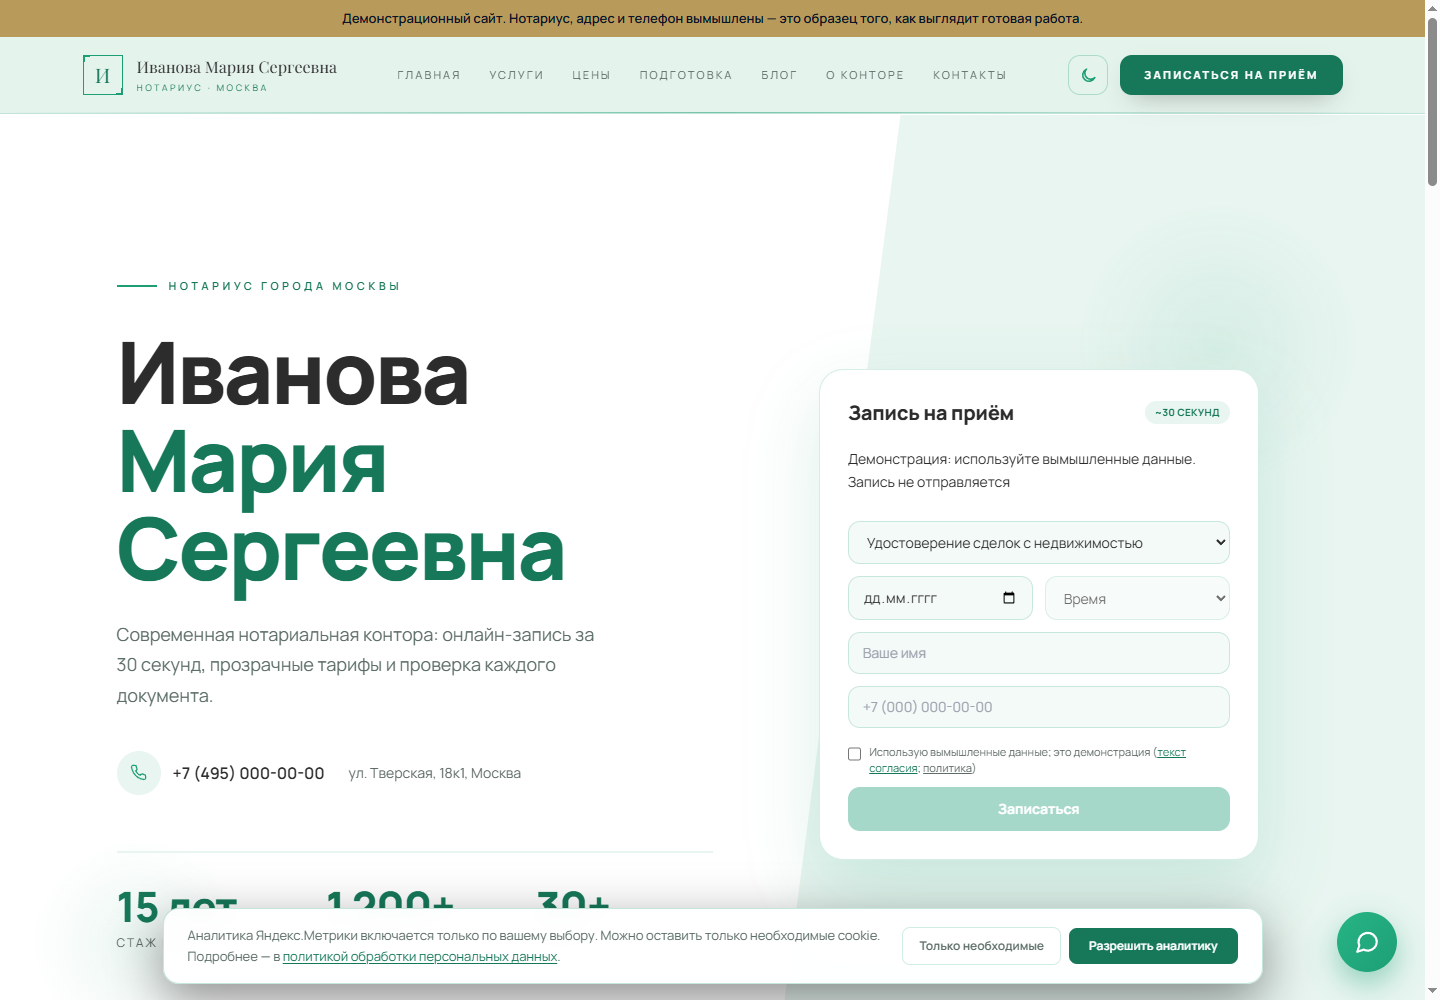
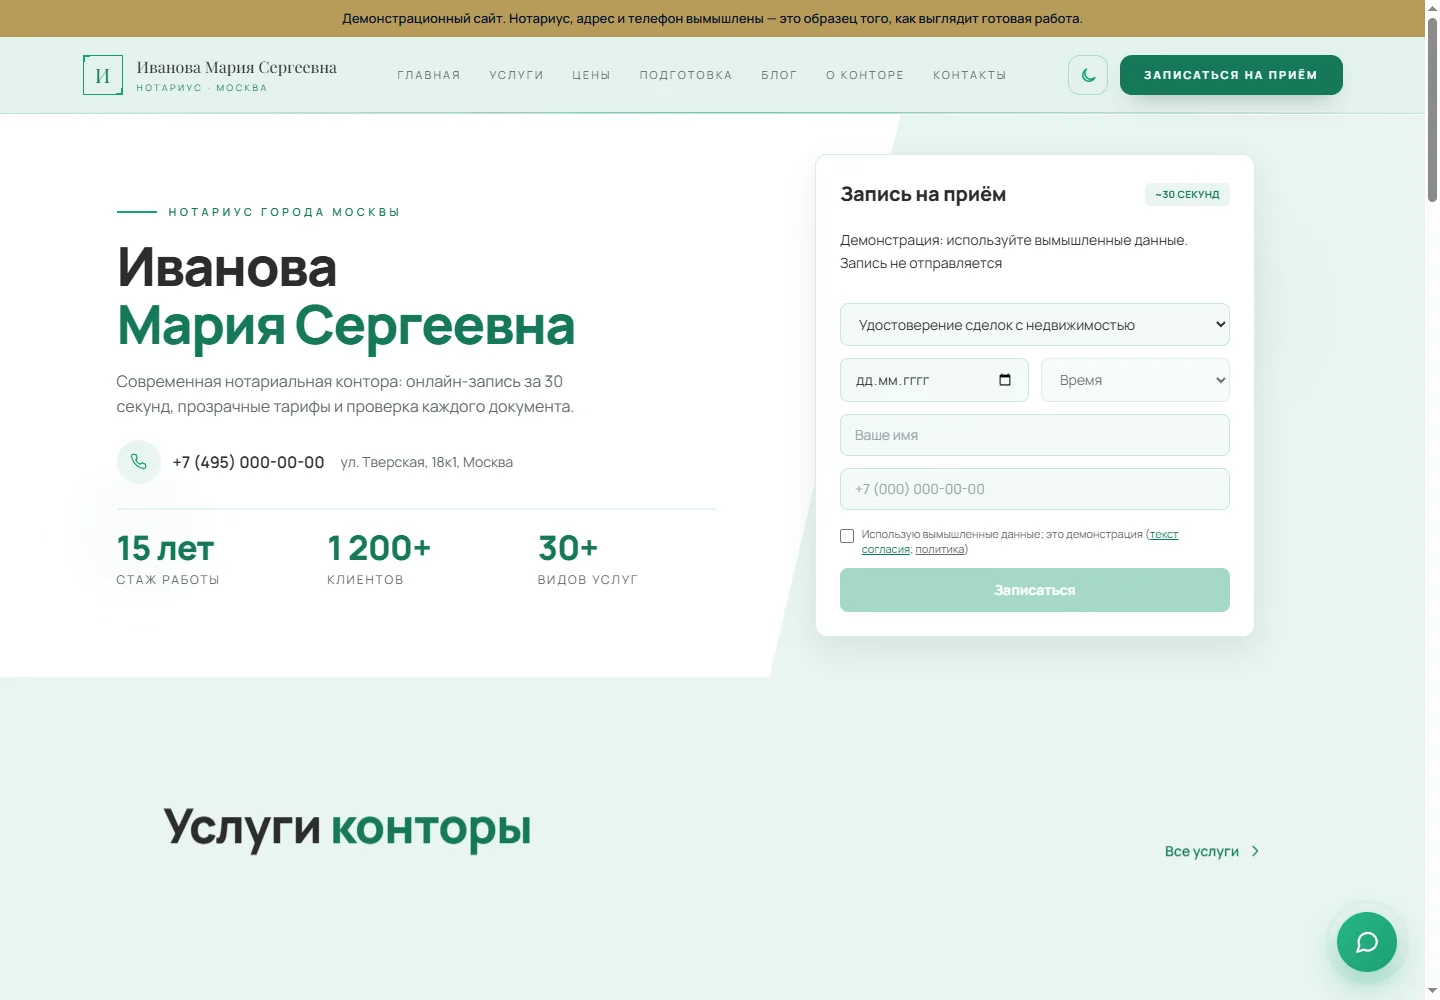
Show demo intake workflow and refresh the five design previews

diff --git a/vendor-site/index.html b/vendor-site/index.html
@@ -23,25 +23,37 @@
     <a href="#price">Сколько стоит</a>
     <a href="#start">Как начать</a>
   </nav>
-  <a class="btn small" href="#price">Цены</a>
+  <a class="btn small" href="https://t.me/ruxjd">Обсудить</a>
 </header>
 
 <!-- ───────────────────────── первый экран ───────────────────────── -->
 
 <section class="hero">
+  <div class="hero-copy">
   <p class="eyebrow">Сайт нотариуса и приём заявок</p>
   <h1>Клиент пишет,<br>что ему нужно.</h1>
   <p class="lede">
-    Сервис сам отвечает, какие документы собрать, называет срок и записывает
-    на приём. Заявка появляется в кабинете, а сотрудникам приходит уведомление в Telegram.
-    Услуги, цены и расписание вы меняете сами, без звонка разработчику.
+    Сайт помогает выбрать услугу и подготовить документы.
+    Сотрудник получает заявку в кабинет — и уведомление в Telegram.
   </p>
   <div class="hero-cta">
     <a class="btn" href="#demo">Попробовать прямо здесь</a>
     <a class="btn ghost" href="#sites">Выбрать дизайн</a>
-    <a class="btn ghost" data-service-link="/staff/demo/login" href="https://app.guidecode.ru/staff/demo/login">Демо-кабинет конторы</a>
   </div>
   <p class="contact-links"><a href="https://t.me/ruxjd">Telegram @ruxjd</a><a href="mailto:negay2020@gmail.com">negay2020@gmail.com</a></p>
+  </div>
+  <figure class="hero-example" aria-label="Пример того, как обращение превращается в заявку">
+    <div class="example-caption"><span>От обращения — к приёму</span><span>Демо</span></div>
+    <div class="example-question"><span class="example-label">Клиент на сайте</span><p>Нужна доверенность<br>на автомобиль</p></div>
+    <div class="example-connector" aria-hidden="true"><span></span>↓<span></span></div>
+    <div class="example-request">
+      <div class="example-request-head"><span class="example-label">Кабинет конторы · № 1042</span><span class="example-status">Новая</span></div>
+      <h2>Доверенность<br>на автомобиль</h2>
+      <dl><div><dt>Услуга</dt><dd>Выбрана</dd></div><div><dt>Список документов</dt><dd>Показан клиенту</dd></div><div><dt>Следующий шаг</dt><dd>Проверить заявку</dd></div></dl>
+      <p class="example-notice"><span aria-hidden="true">↗</span> Сотруднику — уведомление со ссылкой на кабинет</p>
+    </div>
+    <figcaption>Пример сценария. Попробуйте его в демонстрации ниже.</figcaption>
+  </figure>
 </section>
 
 <!-- ───────────────────────── демонстрация ───────────────────────── -->
@@ -189,9 +201,8 @@
   <div class="section-head">
     <h2>Как выглядят готовые сайты</h2>
     <p class="sub">
-      Пять вариантов оформления. Четыре — с отдельными страницами,
-      «Дело» — с разделами на одной странице. Ниже — снимки обновлённых сайтов.
-      Откройте понравившийся сайт и попробуйте демо. Все данные вымышлены.
+      Пять характеров — один понятный путь к записи. Откройте понравившийся
+      вариант и попробуйте демо с вымышленными данными.
     </p>
   </div>
 
@@ -223,7 +234,7 @@
     <a class="site" href="https://notarius-priemnaya.vercel.app/" target="_blank" rel="noopener"
        style="--a:#a93a25;--b:#100c08;--c:#1a1310">
       <img class="site-shot" src="previews/delo.webp" alt="Дело: услуги и документы" width="1440" height="1000" loading="lazy">
-      <span class="site-name">Угольный с кирпичным</span>
+      <span class="site-name">Дело — бумажный стиль</span>
       <span class="site-note">Одна страница, разделы вкладками. Со сценой: лист становится документом</span>
     </a>
   </div>

diff --git a/vendor-site/style.css b/vendor-site/style.css
@@ -119,8 +119,38 @@ a { color: inherit; }
 section { padding: var(--gap) clamp(20px, 5vw, 64px); }
 
 .hero {
-  max-width: 1180px; margin: 0 auto;
-  padding: clamp(58px, 9vw, 120px) clamp(20px, 5vw, 64px) clamp(46px, 6vw, 84px);
+  max-width: 1400px; margin: 0 auto;
+  padding: clamp(38px, 5vw, 72px) clamp(20px, 5vw, 64px);
+  display: grid; grid-template-columns: minmax(0, 1.15fr) minmax(0, 1fr);
+  align-items: center; gap: clamp(32px, 5vw, 76px);
+}
+.hero-copy { min-width: 0; }
+.hero h1 { font-size: clamp(2.35rem, 4.2vw, 3.65rem); }
+.hero .lede { font-size: clamp(1.0625rem, 1.5vw, 1.1875rem); max-width: 29em; }
+.hero-example { margin: 0; min-width: 0; padding: 24px; border: 1px solid var(--line); background: var(--wash); border-radius: 8px; }
+.example-caption { display: flex; justify-content: space-between; gap: 12px; margin-bottom: 20px; font-size: 12px; color: var(--muted); }
+.example-caption > :last-child { border: 1px solid #a39b8e; border-radius: 3px; padding: 0 6px; }
+.example-question { max-width: 86%; margin-left: auto; padding: 17px 22px; color: var(--paper); background: var(--ink); border-radius: 10px 10px 2px 10px; }
+.example-label { display: block; font-size: 11px; letter-spacing: .03em; }
+.example-question .example-label { color: #c4becd; margin-bottom: 5px; }
+.example-question p { font-size: 20px; line-height: 1.4; }
+.example-connector { display: flex; align-items: center; gap: 9px; padding: 10px 0; color: var(--muted); font-size: 20px; }
+.example-connector span { flex: 1; height: 1px; background: #d6cebf; }
+.example-request { padding: 22px; background: var(--surface); border: 1px solid #d6cebf; box-shadow: 0 12px 24px -20px #5d5040; }
+.example-request-head { display: flex; gap: 10px; align-items: center; justify-content: space-between; }
+.example-request-head .example-label { color: var(--muted); }
+.example-status { font-size: 11px; color: #3f5441; background: #e7ece3; border-radius: 3px; padding: 2px 7px; }
+.example-request h2 { font-size: clamp(23px, 2vw, 28px); line-height: 1.25; margin-top: 18px; }
+.example-request dl { margin: 20px 0; font-size: 13px; }
+.example-request dl > div { display: flex; justify-content: space-between; gap: 14px; padding: 7px 0; border-bottom: 1px solid var(--line); }
+.example-request dt { color: var(--muted); }
+.example-request dd { margin: 0; text-align: right; }
+.example-notice { font-size: 12px; line-height: 1.55; color: var(--muted); }
+.example-notice span { margin-right: 5px; }
+.hero-example figcaption { margin-top: 14px; color: var(--muted); font-size: 11px; line-height: 1.5; }
+@media (max-width: 900px) {
+  .hero { grid-template-columns: 1fr; gap: 32px; }
+  .hero-example { max-width: 560px; width: 100%; }
 }
 
 .eyebrow {
@@ -698,11 +728,14 @@ section { padding: var(--gap) clamp(20px, 5vw, 64px); }
 
 .sites {
   display: grid; gap: 20px;
-  /* 200px, а не 248: оформлений стало пять, и при прежнем минимуме пятая
-     плитка уходила на второй ряд одна. Пустой ряд рядом с одинокой карточкой
-     читается как «этот вариант не такой, как остальные». */
-  grid-template-columns: repeat(auto-fit, minmax(200px, 1fr));
+  grid-template-columns: repeat(3, minmax(0, 1fr));
 }
+@media (min-width: 1000px) {
+  .sites { grid-template-columns: repeat(6, minmax(0, 1fr)); }
+  .site { grid-column: span 2; }
+  .site:nth-child(4) { grid-column: 2 / span 2; }
+}
+@media (min-width: 601px) and (max-width: 999px) { .sites { grid-template-columns: repeat(2,minmax(0,1fr)); } }
 
 .site {
   display: flex; flex-direction: column;
@@ -728,9 +761,12 @@ section { padding: var(--gap) clamp(20px, 5vw, 64px); }
 .demo-settings[open] > summary, .data-details[open] > summary { margin-bottom:20px; }
 section[id] { scroll-margin-top:86px; }
 @media (max-width:600px) {
-  .sites { grid-template-columns:repeat(2,minmax(0,1fr)); gap:12px; }
+  .sites { grid-template-columns:1fr; gap:18px; }
   .site { padding:12px; }
   .site-shot { height:auto; border-radius:6px; }
   .site-name { font-size:14px; }
   .hero-cta .btn { white-space:normal; text-align:center; }
+  .hero-example { padding: 16px; }
+  .example-request { padding: 18px; }
+  .contact-links { font-size: 14px; gap: 10px 18px; }
 }
